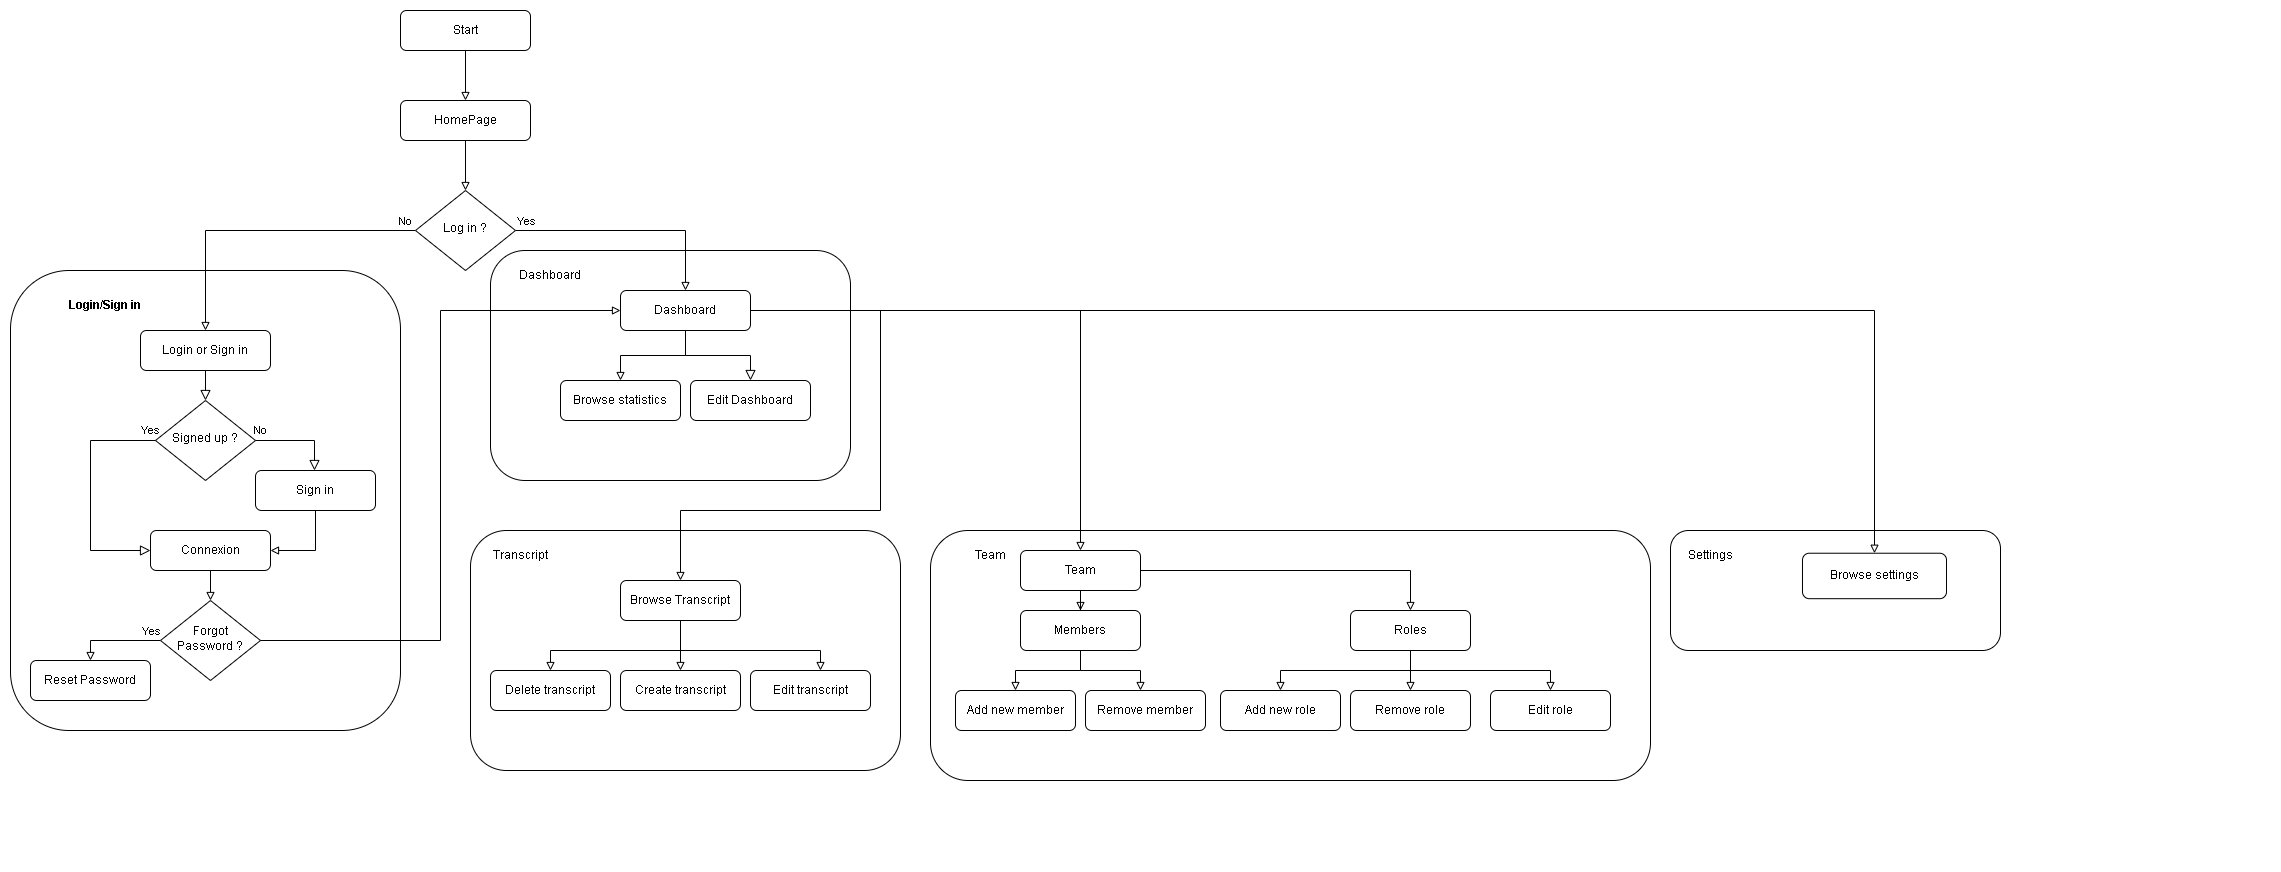
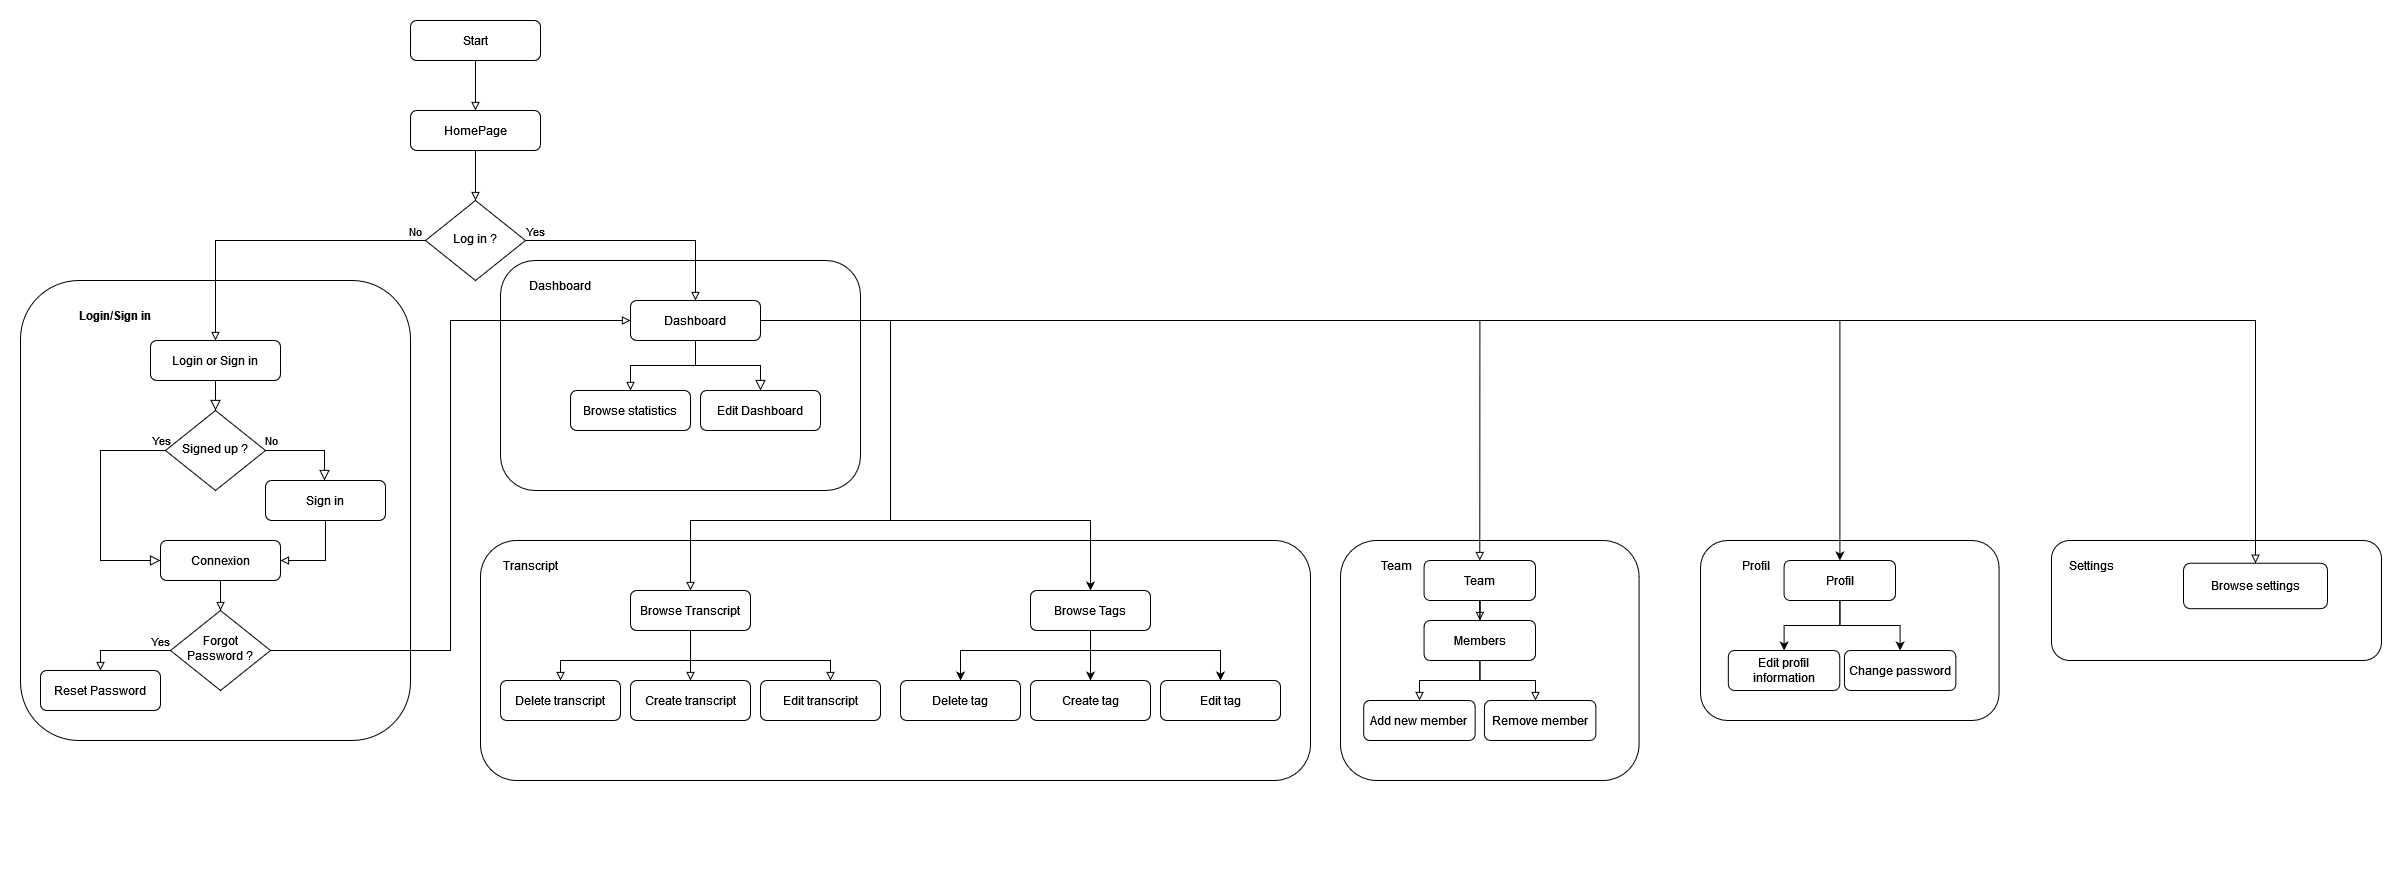
docs: user flow diagram

diff --git a/WebApp/frontend/src/components/auth/LoginScreen.tsx b/WebApp/frontend/src/components/auth/LoginScreen.tsx
@@ -92,11 +92,6 @@ function LoginScreen() {
 									variant='outlined'
 									id='password'
 								/>
-								<Typography variant='body2' fontWeight='bold' marginTop={2} textAlign='end' sx={{color: theme.palette.primary.main}}>
-									<Link href='_blank' rel='noreferrer' underline='none'>
-										Forgot your password ?
-									</Link>
-								</Typography>
 							</Paper>
 							<Paper elevation={0} sx={{width: '100%'}}>
 								<Stack justifyContent='right' alignItems='left' spacing={1}>
